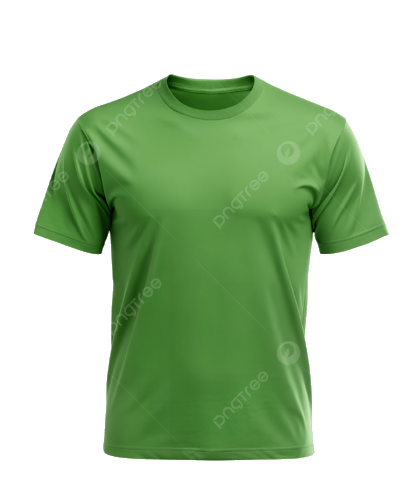
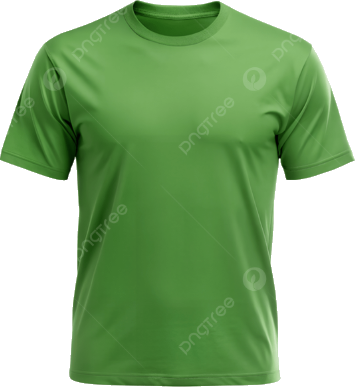
box-app: crop garment PNGs to tight bounds (fixes dead-space misalignment), extend shirt hem below hip bone

diff --git a/box-app/app/src/main/java/com/smartmirror/box/MainActivity.kt b/box-app/app/src/main/java/com/smartmirror/box/MainActivity.kt
@@ -273,12 +273,18 @@ private fun PoseOverlay(
         val (leftShoulder, rightShoulder) = widen(liftedLeftShoulder, liftedRightShoulder, 1.5f)
         val (leftHip, rightHip) = widen(rawLeftHip, rawRightHip, 1.55f)
 
+        // A tee's hem falls below the hip bone itself, not exactly at it — the
+        // shirt was ending right at the hip landmark, reading as too short.
+        val hemDrop = torsoHeight * 0.15f
+        val leftHem = leftHip.copy(y = leftHip.y + hemDrop)
+        val rightHem = rightHip.copy(y = rightHip.y + hemDrop)
+
         if (showShirt) {
             drawMeshWarpedGarment(
                 shirtBitmap,
                 topLeft = leftShoulder, topRight = rightShoulder,
-                midLeft = lerp(leftShoulder, leftHip, 0.45f), midRight = lerp(rightShoulder, rightHip, 0.45f),
-                bottomLeft = leftHip, bottomRight = rightHip
+                midLeft = lerp(leftShoulder, leftHem, 0.45f), midRight = lerp(rightShoulder, rightHem, 0.45f),
+                bottomLeft = leftHem, bottomRight = rightHem
             )
         }
 
